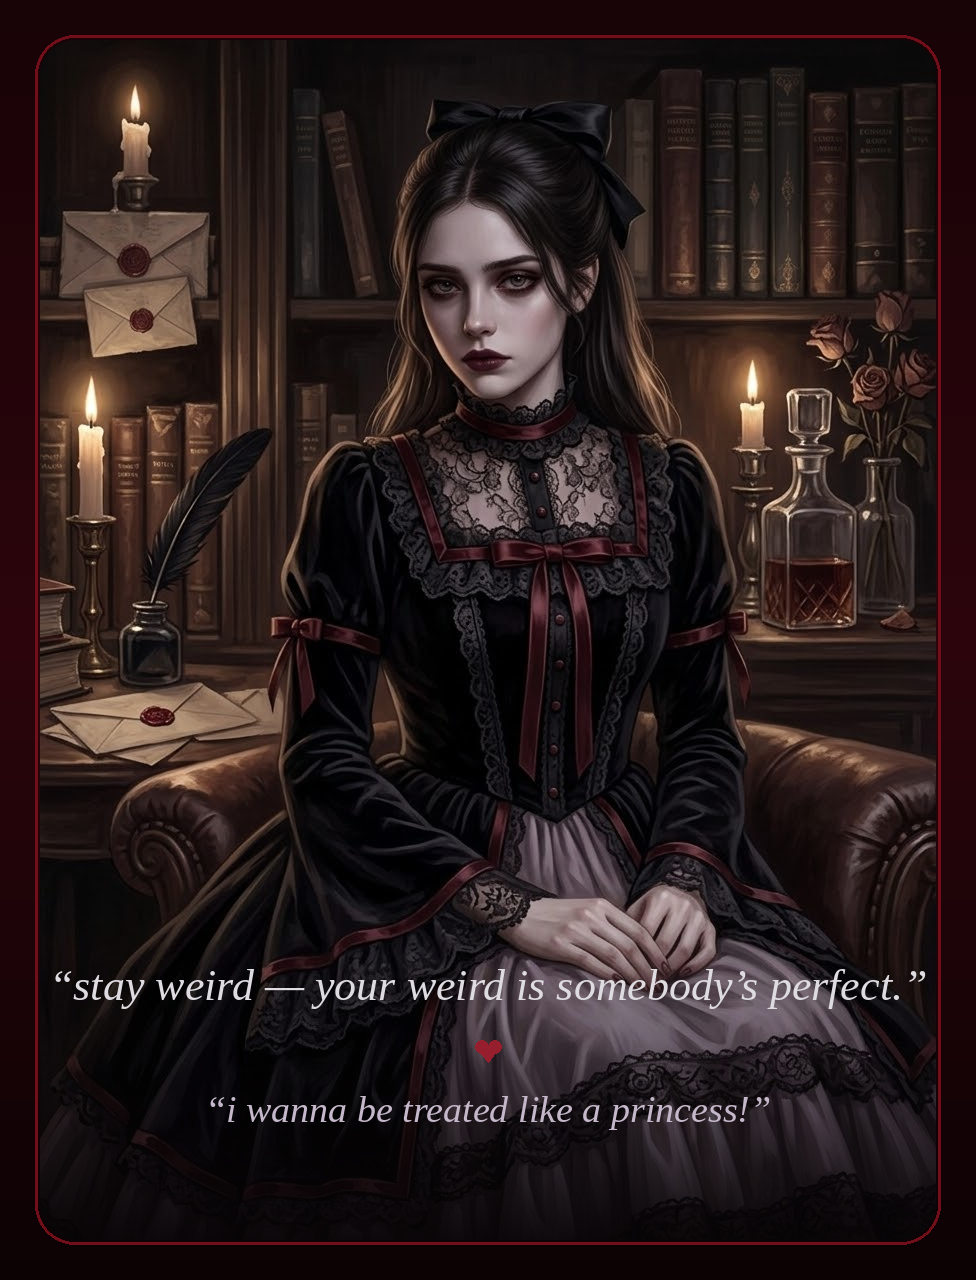
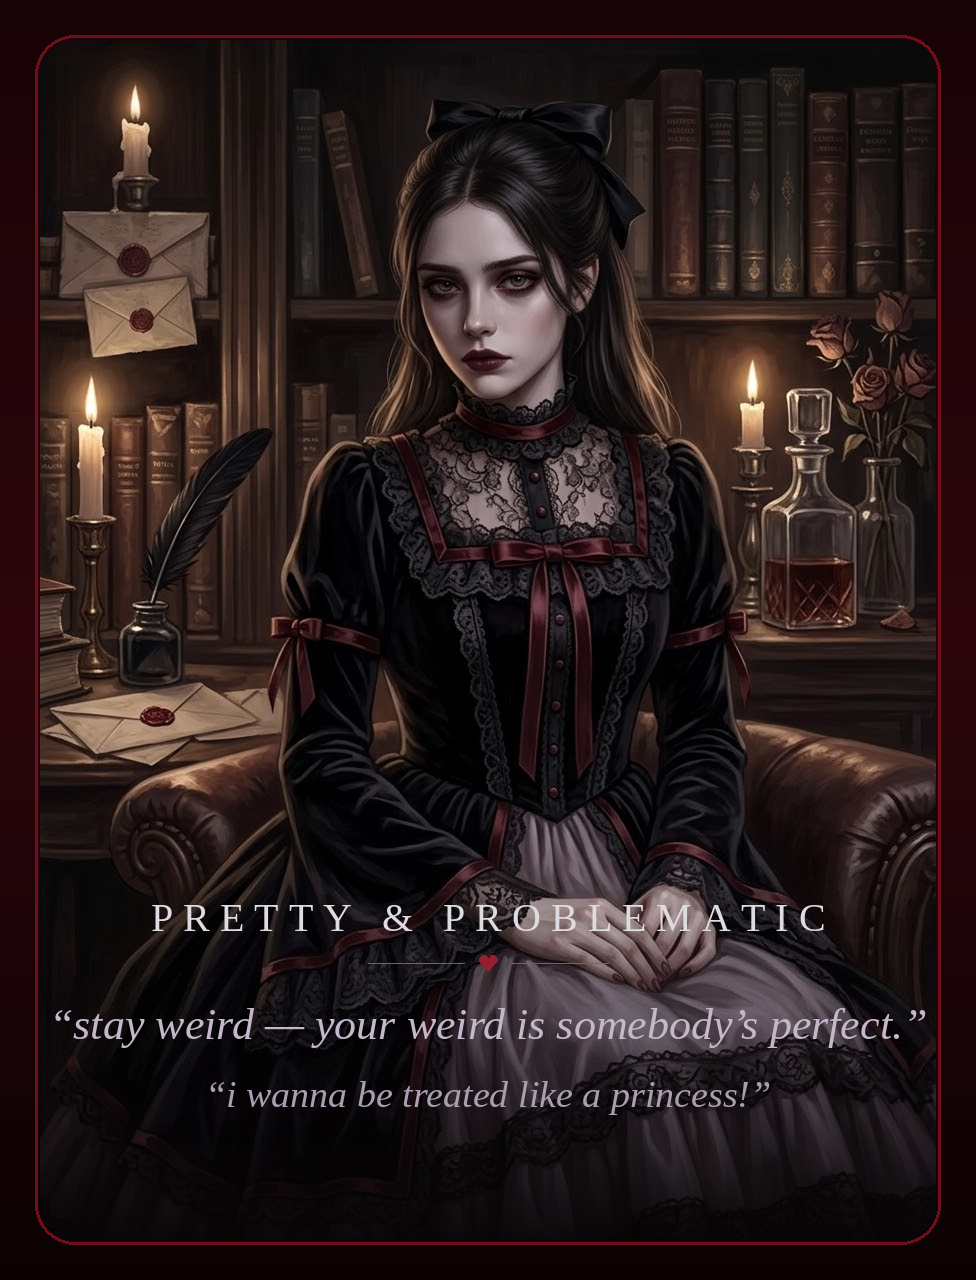
Add the Pretty & Problematic crest to the keeper portrait and Extra section (#19)
The quote overlay now opens with a letterspaced PRETTY & PROBLEMATIC
crest above a heart divider and both quotes; the bio's Extra panel
gains the same crest line above its quotes.

Claude-Session: https://claude.ai/code/session_01GTtD84bh6R95RTdGEarPos

diff --git a/seraphs-crypt/profile-bio.html b/seraphs-crypt/profile-bio.html
@@ -2491,6 +2491,16 @@ border: 1px solid rgba(197, 184, 202, 0.14);
 border-radius: 18px;
 ">
 <p style="
+margin: 0 0 14px 0;
+color: rgb(222, 219, 225);
+font-family: Georgia, 'Times New Roman', serif;
+font-size: 15px;
+letter-spacing: 4px;
+">
+PRETTY &amp; PROBLEMATIC
+</p>
+
+<p style="
 margin: 0 0 6px 0;
 color: rgb(151, 138, 158);
 font-family: Georgia, 'Times New Roman', serif;
